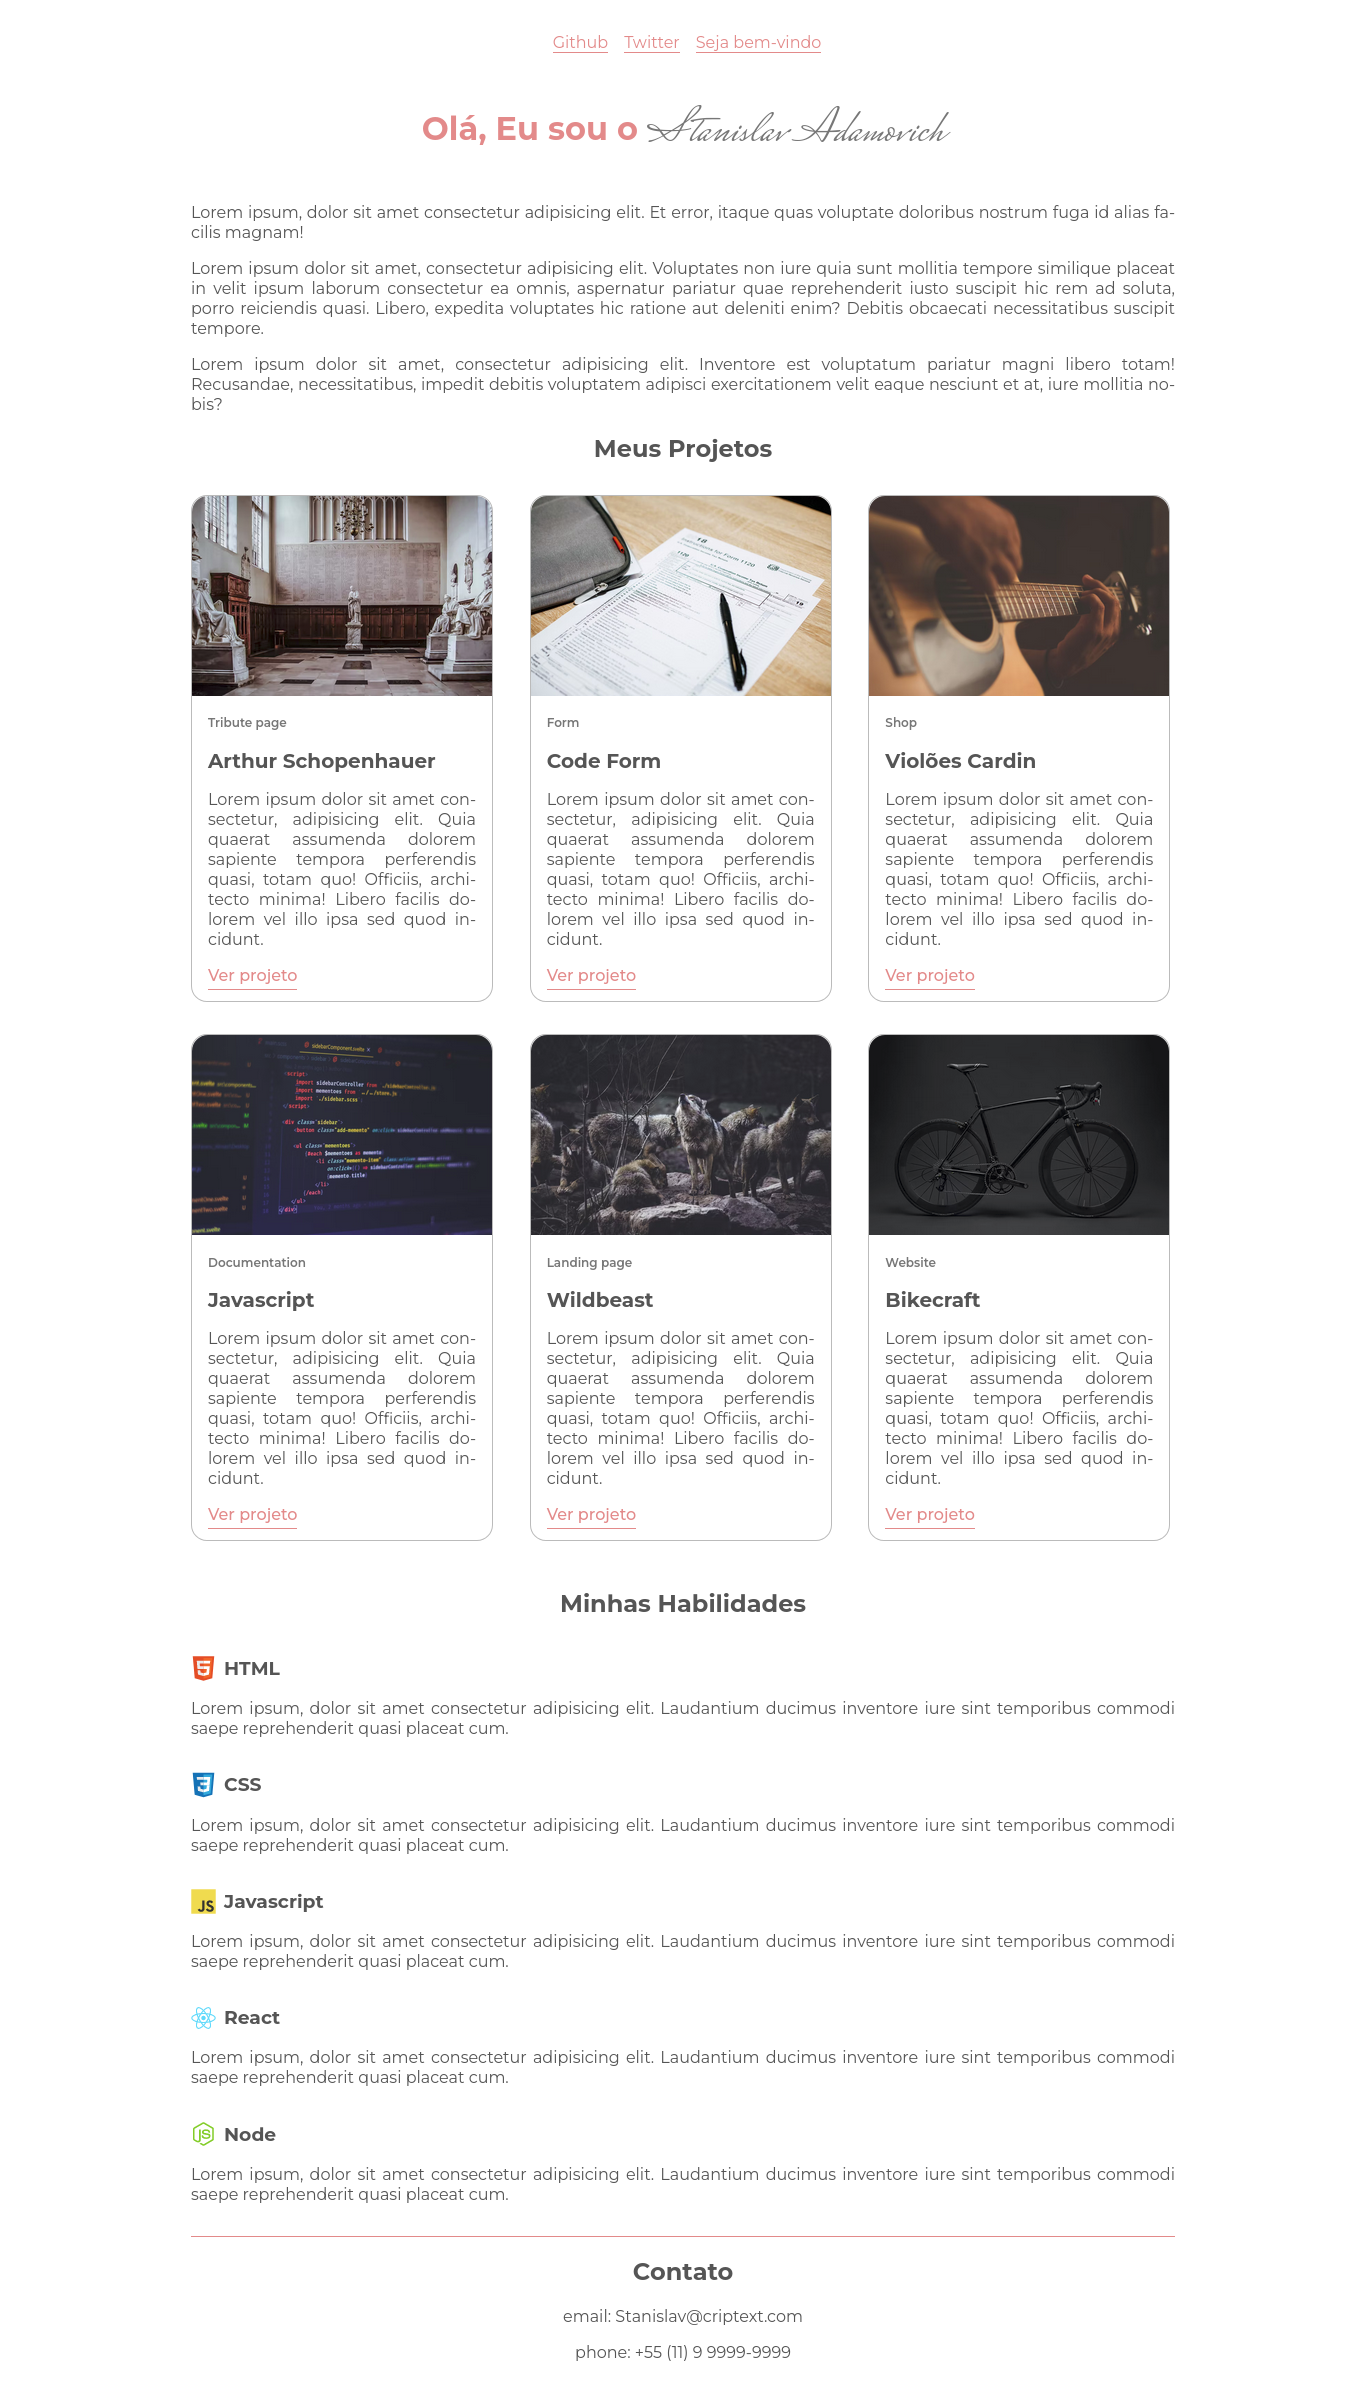
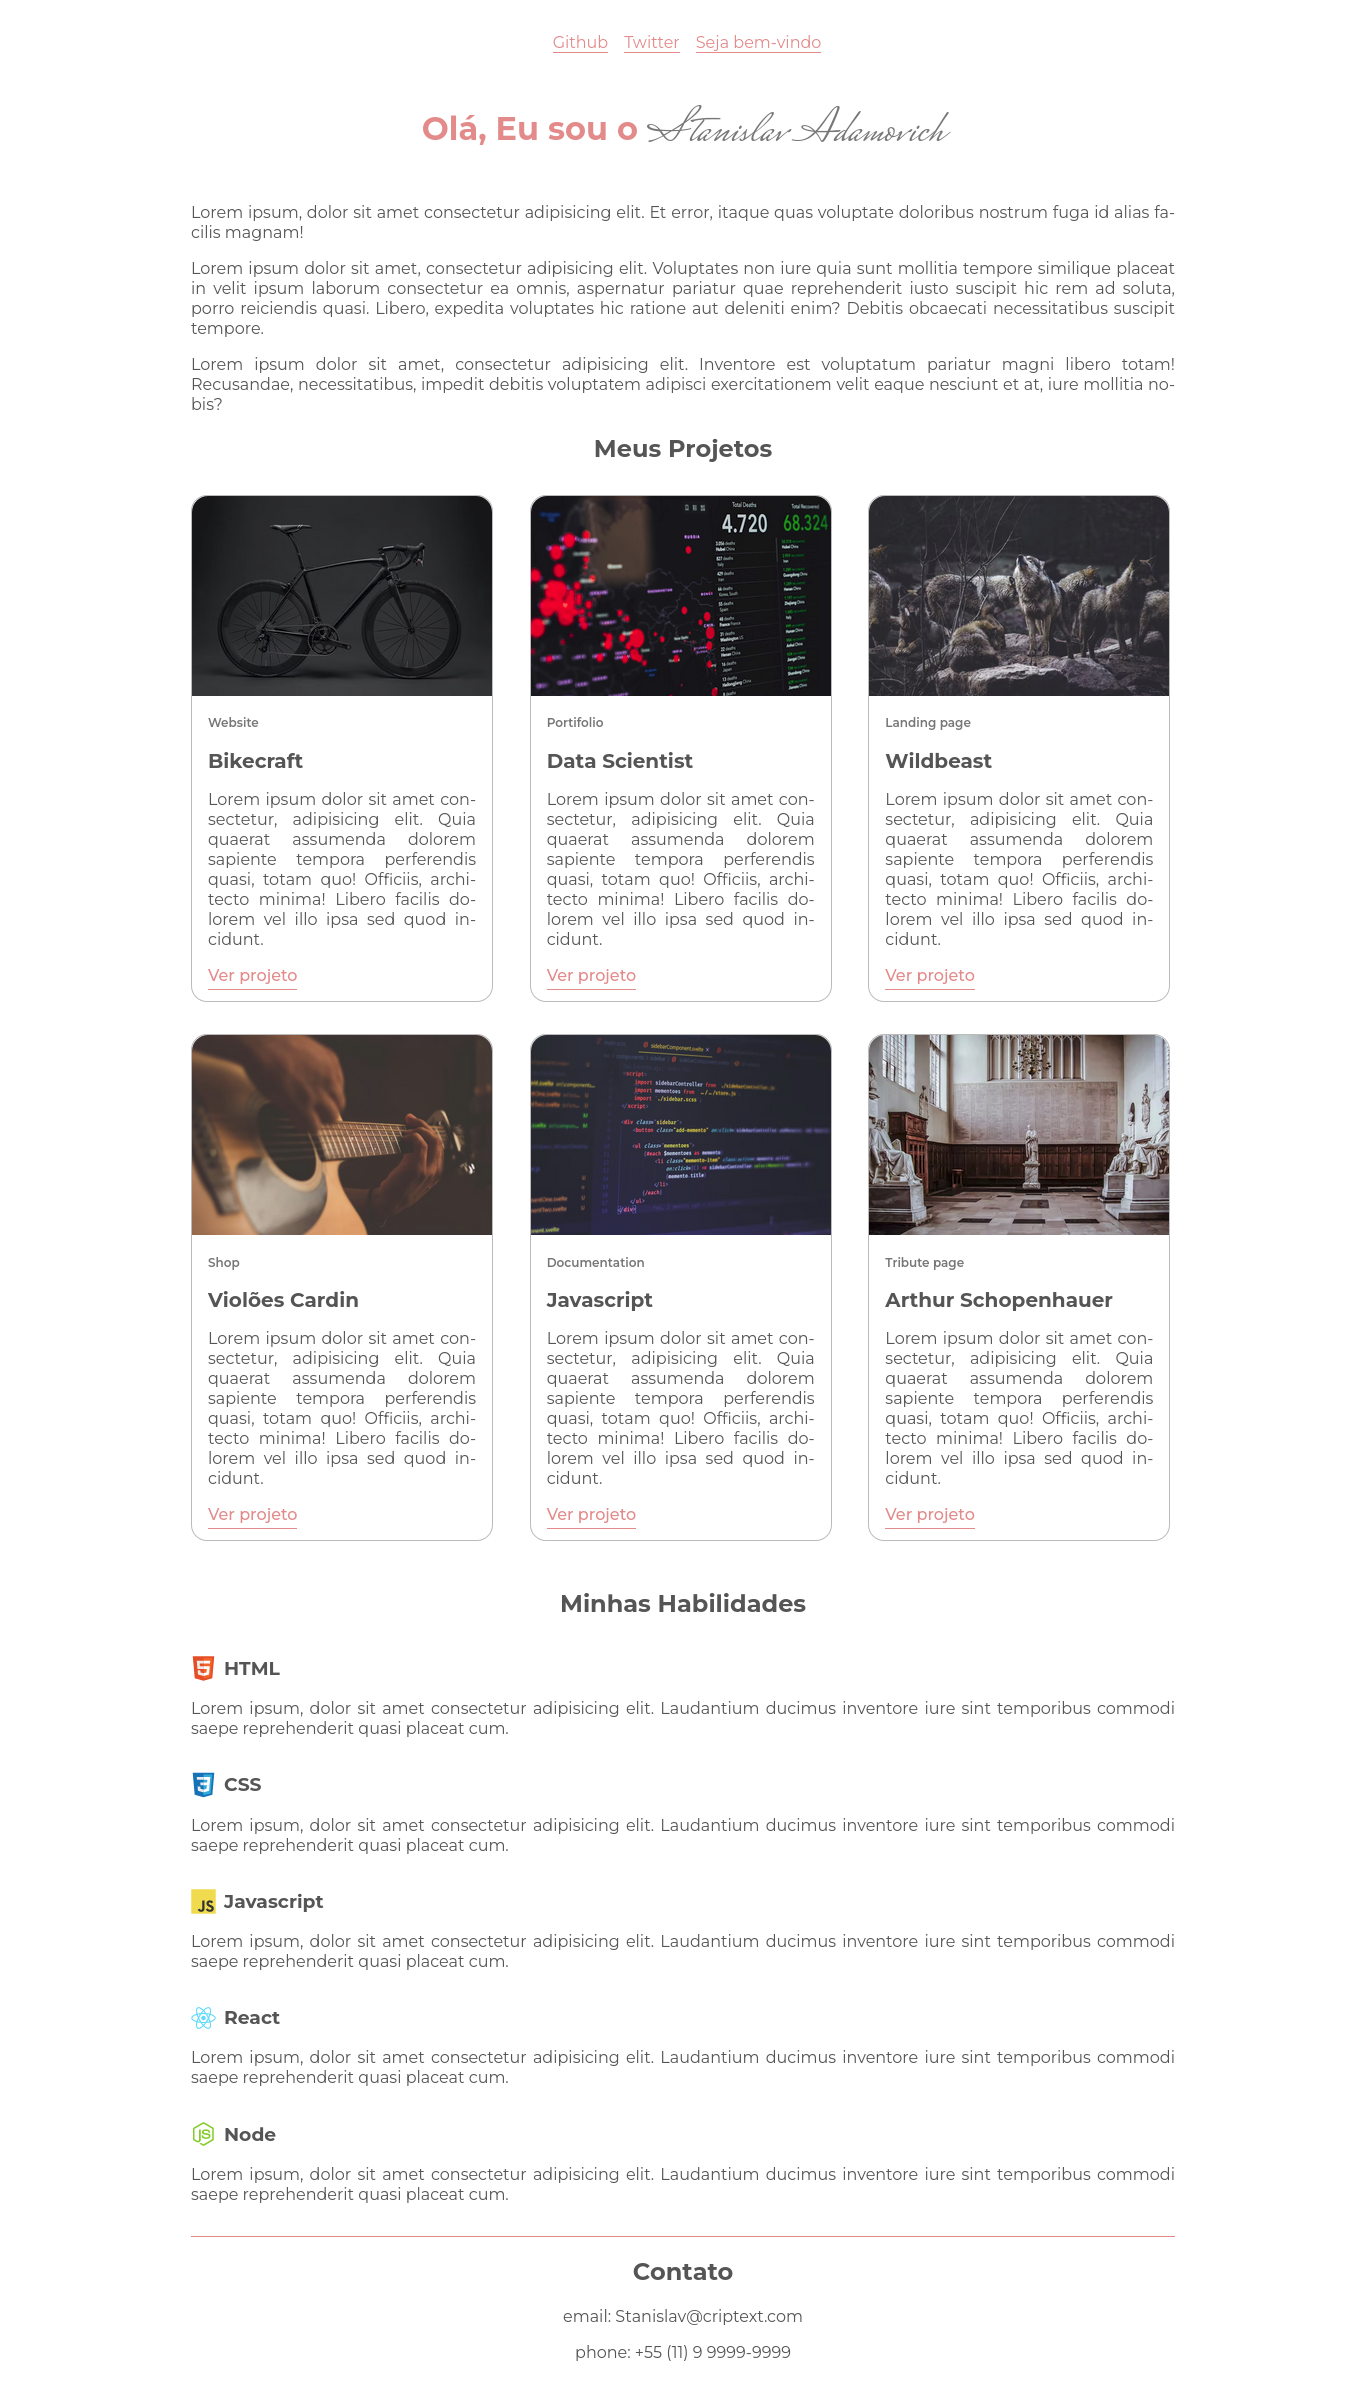
freeCodeCamp__webdesign5(2)

Changed region(s): [[0.123, 0.1855, 0.8609, 0.34], [0.123, 0.4327, 0.8609, 0.5564]]

diff --git a/index.html b/index.html
@@ -54,14 +54,14 @@
       <section id="projects" class="projects">
         <article class="project-tile" id="project-tile">
           <img
-            src="https://images.unsplash.com/photo-1597761081347-b9d37f912156?crop=entropy&cs=tinysrgb&fm=jpg&ixlib=rb-1.2.1&q=60&raw_url=true&ixid=MnwxMjA3fDB8MHxzZWFyY2h8MTJ8fHBoaWxvc29waHl8ZW58MHx8MHx8&auto=format&fit=crop&w=500"
+            src="https://images.unsplash.com/photo-1532298229144-0ec0c57515c7?crop=entropy&cs=tinysrgb&fm=jpg&ixlib=rb-1.2.1&q=80&raw_url=true&ixid=MnwxMjA3fDB8MHxwaG90by1wYWdlfHx8fGVufDB8fHx8&auto=format&fit=crop&w=822"
             alt=""
           />
 
           <div class="project-description">
-            <span>Tribute page</span>
+            <span>Website</span>
 
-            <h2>Arthur Schopenhauer</h2>
+            <h2>Bikecraft</h2>
 
             <p>
               Lorem ipsum dolor sit amet consectetur, adipisicing elit. Quia
@@ -71,7 +71,7 @@
             </p>
 
             <a
-              href="https://flx-lander7.github.io/freeCodeCamp__WebDesign1/"
+              href="https://flx-lander7.github.io/Origamid-2-Bikcraft/"
               target="_blank"
               >Ver projeto
             </a>
@@ -80,14 +80,14 @@
 
         <article class="project-tile" id="project-tile">
           <img
-            src="https://images.unsplash.com/photo-1579444741963-5ae219cfe27c?crop=entropy&cs=tinysrgb&fm=jpg&ixlib=rb-1.2.1&q=80&raw_url=true&ixid=MnwxMjA3fDB8MHxwaG90by1wYWdlfHx8fGVufDB8fHx8&auto=format&fit=crop&w=870"
+            src="https://images.unsplash.com/photo-1584254520678-31fe4dce5306?crop=entropy&cs=tinysrgb&fm=jpg&ixlib=rb-1.2.1&q=80&raw_url=true&ixid=MnwxMjA3fDB8MHxwaG90by1wYWdlfHx8fGVufDB8fHx8&auto=format&fit=crop&w=871"
             alt=""
           />
 
           <div class="project-description">
-            <span>Form</span>
+            <span>Portifolio</span>
 
-            <h2>Code Form</h2>
+            <h2>Data Scientist</h2>
 
             <p>
               Lorem ipsum dolor sit amet consectetur, adipisicing elit. Quia
@@ -97,7 +97,33 @@
             </p>
 
             <a
-              href="https://flx-lander7.github.io/freeCodeCamp__WebDesign2/"
+              href="https://flx-lander7.github.io/Origamid-1-Portifolio/"
+              target="_blank"
+              >Ver projeto
+            </a>
+          </div>
+        </article>
+
+        <article class="project-tile" id="project-tile">
+          <img
+            src="https://images.unsplash.com/photo-1545906785-38f53f99e380?crop=entropy&cs=tinysrgb&fm=jpg&ixlib=rb-1.2.1&q=60&raw_url=true&ixid=MnwxMjA3fDB8MHxzZWFyY2h8MTB8fHdvbGZ8ZW58MHx8MHx8&auto=format&fit=crop&w=500"
+            alt=""
+          />
+
+          <div class="project-description">
+            <span>Landing page</span>
+
+            <h2>Wildbeast</h2>
+
+            <p>
+              Lorem ipsum dolor sit amet consectetur, adipisicing elit. Quia
+              quaerat assumenda dolorem sapiente tempora perferendis quasi,
+              totam quo! Officiis, architecto minima! Libero facilis dolorem vel
+              illo ipsa sed quod incidunt.
+            </p>
+
+            <a
+              href="https://flx-lander7.github.io/Origamid-4-WildBeast/"
               target="_blank"
               >Ver projeto
             </a>
@@ -158,14 +184,14 @@
 
         <article class="project-tile" id="project-tile">
           <img
-            src="https://images.unsplash.com/photo-1545906785-38f53f99e380?crop=entropy&cs=tinysrgb&fm=jpg&ixlib=rb-1.2.1&q=60&raw_url=true&ixid=MnwxMjA3fDB8MHxzZWFyY2h8MTB8fHdvbGZ8ZW58MHx8MHx8&auto=format&fit=crop&w=500"
+            src="https://images.unsplash.com/photo-1597761081347-b9d37f912156?crop=entropy&cs=tinysrgb&fm=jpg&ixlib=rb-1.2.1&q=60&raw_url=true&ixid=MnwxMjA3fDB8MHxzZWFyY2h8MTJ8fHBoaWxvc29waHl8ZW58MHx8MHx8&auto=format&fit=crop&w=500"
             alt=""
           />
 
           <div class="project-description">
-            <span>Landing page</span>
+            <span>Tribute page</span>
 
-            <h2>Wildbeast</h2>
+            <h2>Arthur Schopenhauer</h2>
 
             <p>
               Lorem ipsum dolor sit amet consectetur, adipisicing elit. Quia
@@ -175,39 +201,14 @@
             </p>
 
             <a
-              href="https://flx-lander7.github.io/Origamid-4-WildBeast/"
-              target="_blank"
-              >Ver projeto
-            </a>
-          </div>
-        </article>
-
-        <article class="project-tile" id="project-tile">
-          <img
-            src="https://images.unsplash.com/photo-1532298229144-0ec0c57515c7?crop=entropy&cs=tinysrgb&fm=jpg&ixlib=rb-1.2.1&q=80&raw_url=true&ixid=MnwxMjA3fDB8MHxwaG90by1wYWdlfHx8fGVufDB8fHx8&auto=format&fit=crop&w=822"
-            alt=""
-          />
-
-          <div class="project-description">
-            <span>Website</span>
-
-            <h2>Bikecraft</h2>
-
-            <p>
-              Lorem ipsum dolor sit amet consectetur, adipisicing elit. Quia
-              quaerat assumenda dolorem sapiente tempora perferendis quasi,
-              totam quo! Officiis, architecto minima! Libero facilis dolorem vel
-              illo ipsa sed quod incidunt.
-            </p>
-
-            <a
-              href="https://flx-lander7.github.io/Origamid-2-Bikcraft/"
+              href="https://flx-lander7.github.io/freeCodeCamp__WebDesign1/"
               target="_blank"
               >Ver projeto
             </a>
           </div>
         </article>
       </section>
+
       <section class="skills">
         <h2>Minhas Habilidades</h2>
 
